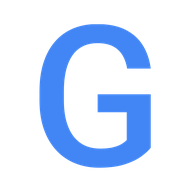
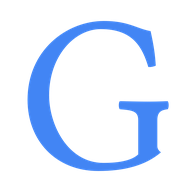
Cut the G from the serif, and set the header in it too
The mark was Roboto, which is the UI font — but the wordmark on the home
page and every article title are the serif, so the icon was quoting a
typeface the name is never set in. Recut the G from Linux Libertine
Regular, the head of the serif stack, at the same 400 weight the home page
uses, and give the header brand the same face so the two agree.

The header goes 20px to 22px (17 to 19 on mobile): a serif at a shared size
reads a size smaller than the sans it replaced. The glyph fills more of the
icon box than the sans did, because serif strokes have less to give at 16px.

Changed region(s): [[0.125, 0.0938, 0.9062, 0.9062], [0.2812, 0.1875, 0.3125, 0.2188]]

diff --git a/src/Gatherum.Web/Components/Layout/MainLayout.razor.css b/src/Gatherum.Web/Components/Layout/MainLayout.razor.css
@@ -25,9 +25,13 @@
 
 .topbar-search { width: 100%; }
 
+/* The same serif as the home page wordmark and the article titles — the
+   header is the wordmark in miniature, and setting it in the UI sans made it
+   read as a label instead. Two points larger than the sans it replaced,
+   because a serif at a shared size looks a size smaller. */
 .brand {
-    font-size: 20px;
-    letter-spacing: 0.1px;
+    font: 400 22px/1.2 var(--font-serif);
+    letter-spacing: 0.3px;
     color: var(--on-surface);
 
     &:hover { text-decoration: none; }
@@ -246,7 +250,7 @@
     .brand {
         flex: 1 1 auto;
         min-width: 0;
-        font-size: 17px;
+        font-size: 19px;
         overflow: hidden;
         text-overflow: ellipsis;
         white-space: nowrap;
